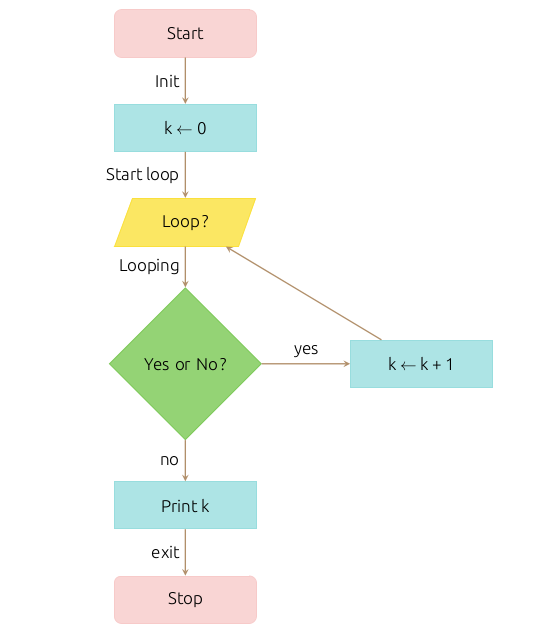
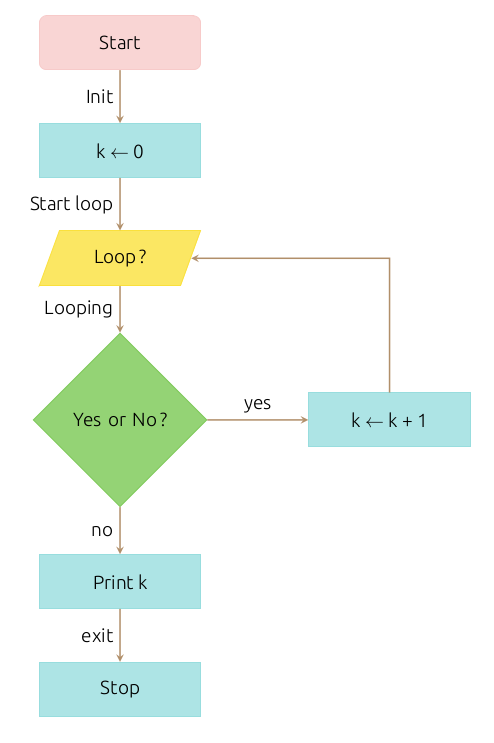
Updating tuto with brokenArrow

Changed region(s): [[0.0607, 0.0, 0.9717, 0.9843], [0.5466, 0.4474, 0.5769, 0.4772], [0.4858, 0.4176, 0.5162, 0.4474]]

diff --git a/sample/tuto/tuto.js b/sample/tuto/tuto.js
@@ -15,4 +15,4 @@ N('Start').belowGoto(
   ).leftLabel('Start loop')
 ).leftLabel('Init');
 
-kp1.goto(loop);
+kp1.goto(loop).brokenArrow();

diff --git a/sample/tuto/tuto.md b/sample/tuto/tuto.md
@@ -4,48 +4,6 @@
 
   ![draft](https://raw.githubusercontent.com/pierre-luc/flowtex/master/sample/tuto/draft.png)
 
-* Template:
-  * Nodes:
-    * **N**: Start or stop node
-    * **D**: Conditionnal node
-    * **IO**: Input or output node
-    * **P**: Process node
-* LaTeX Formatter:
-  * Arrows:
-    * <- : $\leftarrow$
-    * -> : $\rightarrow$
-  * Text
-    * Bold
-      * \*\*text\*\* : \textbf{text}
-* Methods:
-  * Size:
-    * _node_.width(_Number_)
-
-  * Placements:
-    * _originNode_.above(_node_): _node_ is above of _originNode_
-    * _originNode_.below(_node_): _node_ is below of _originNode_
-    * _originNode_.left(_node_): _node_ is left of _originNode_
-    * _originNode_.right(_node_): _node_ is right of _originNode_
-
-  * Arrows:
-    * _originNode_.goto(_targetNode_)
-      * Arrow style as next goto declaration:
-        _gotoCall_(_targetNode_).brokenArrow(): |- tikz style
-        _gotoCall_(_targetNode_).offsetArrow(x, y): offsets of start point from origin node
-
-  * Placements with Arrows:
-    * _originNode_.aboveGoto(_node_)
-    * _originNode_.belowGoto(_node_)
-    * _originNode_.leftGoto(_node_)
-    * _originNode_.rightGoto(_node_)
-
-  * Labels:
-    * leftLabel(_string_)
-    * rightLabel(_string_)
-    * topLabel(_string_)
-    * downLabel(_string_)
-
-
 * Write your code:
 
   1. Define the horizontal space between each nodes
@@ -218,7 +176,7 @@
       ).leftLabel('Start loop')
     ).leftLabel('Init');
 
-    kp1.goto(loop);
+    kp1.goto(loop).brokenArrow();
     ```
 
   14. Compile with flowtex:
@@ -241,7 +199,7 @@
       \draw [arrow] (node2) --node[anchor=east] {Looping} (node3);
       \draw [arrow] (node1) --node[anchor=east] {Start loop} (node2);
       \draw [arrow] (node0) --node[anchor=east] {Init} (node1);
-      \draw [arrow] (node4) -- (node2);
+      \draw [arrow] (node4) |- (node2);
     \end{tikzpicture}
   \end{center}
   ```

diff --git a/README.md b/README.md
@@ -19,8 +19,51 @@ Flowtex use LaTeX packages: tikz and xcolor. The extension flowtex import tikz
 and xcolor.
 
 ## Render based on
-The **flowtex.sty** is based on the following external definitions:
+The extension **flowtex.sty** is based on the following external definitions:
 https://www.sharelatex.com/blog/2013/08/29/tikz-series-pt3.html
+
+## API
+* Template:
+  * Nodes:
+    * **N**: Start or stop node
+    * **D**: Conditionnal node
+    * **IO**: Input or output node
+    * **P**: Process node
+* LaTeX Formatter:
+  * Arrows:
+    * <- : $\leftarrow$
+    * -> : $\rightarrow$
+  * Text
+    * Bold
+      * \*\*text\*\* : \textbf{text}
+* Methods:
+  * Size:
+    * ```_node_.width(_Number_)```
+
+  * Placements:
+    * ```_originNode_.above(_node_)```: _node_ is above of _originNode_
+    * ```_originNode_.below(_node_)```: _node_ is below of _originNode_
+    * ```_originNode_.left(_node_)```: _node_ is left of _originNode_
+    * ```_originNode_.right(_node_)```: _node_ is right of _originNode_
+
+  * Arrows:
+    * ```_originNode_.goto(_targetNode_)```
+      * Arrow style as next goto declaration:
+        ```_gotoCall_(_targetNode_).brokenArrow()```: |- tikz style
+        ```_gotoCall_(_targetNode_).offsetArrow(x, y)```: offsets of start point from origin node
+
+  * Placements with Arrows:
+    * ```_originNode_.aboveGoto(_node_)```
+    * ```_originNode_.belowGoto(_node_)```
+    * ```_originNode_.leftGoto(_node_)```
+    * ```_originNode_.rightGoto(_node_)```
+
+  * Labels:
+    * ```leftLabel(_string_)```
+    * ```rightLabel(_string_)```
+    * ```topLabel(_string_)```
+    * ```downLabel(_string_)```
+
 
 ## How to
 [tutorial](https://github.com/pierre-luc/flowtex/blob/master/sample/tuto/tuto.md)
